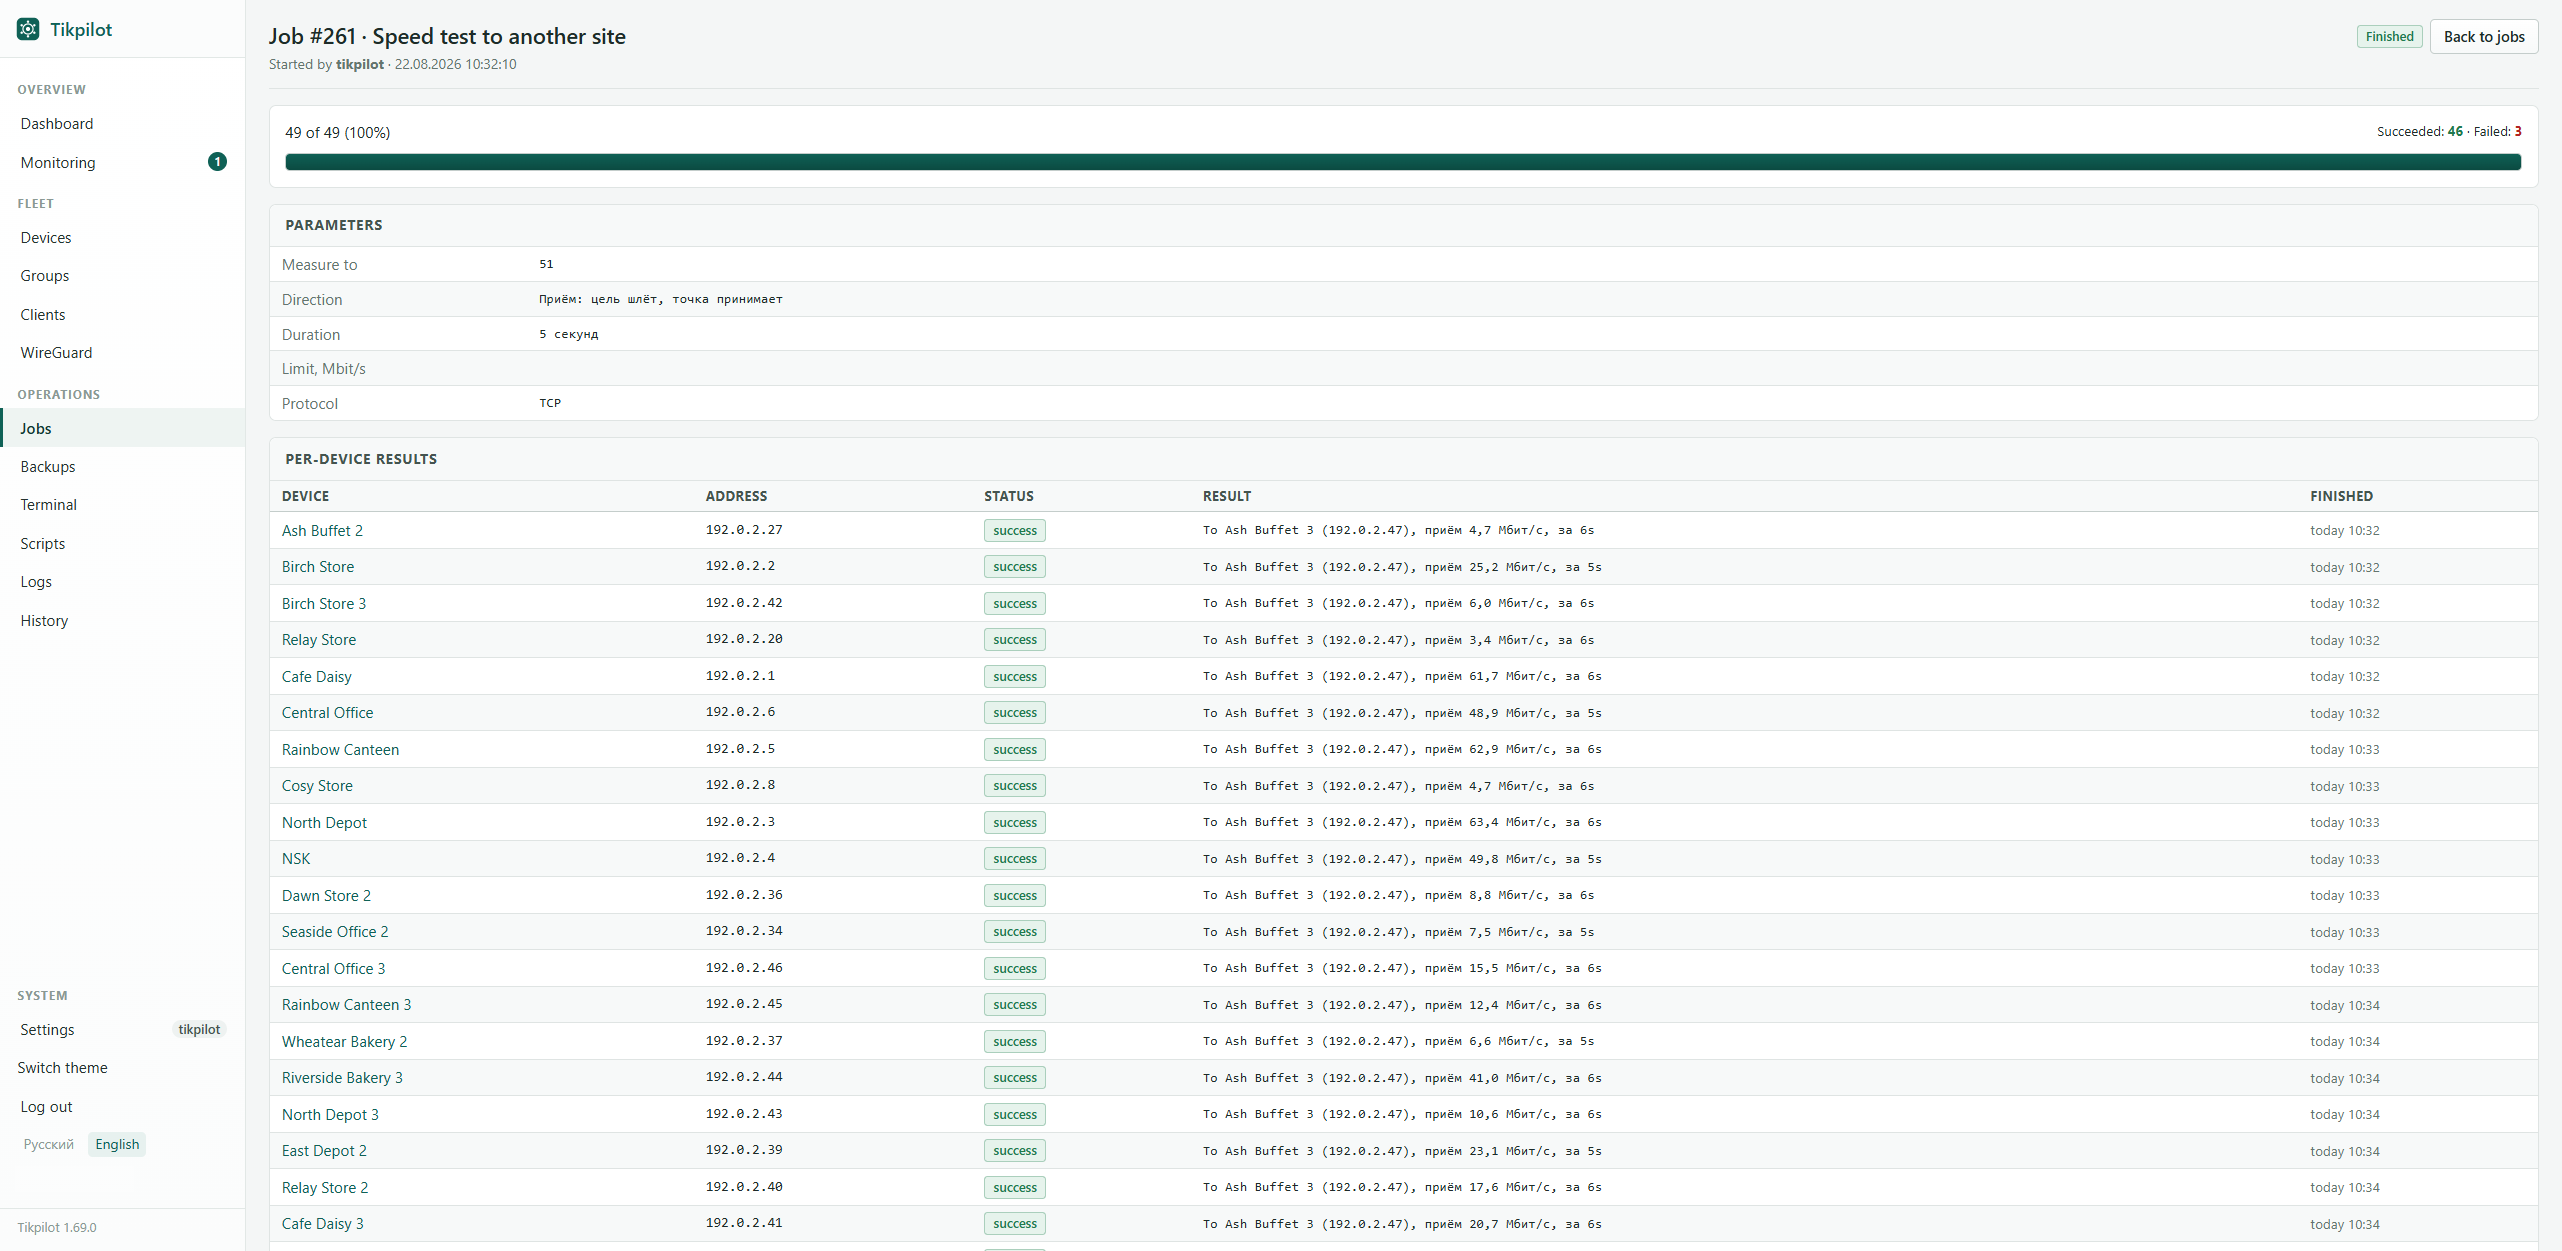
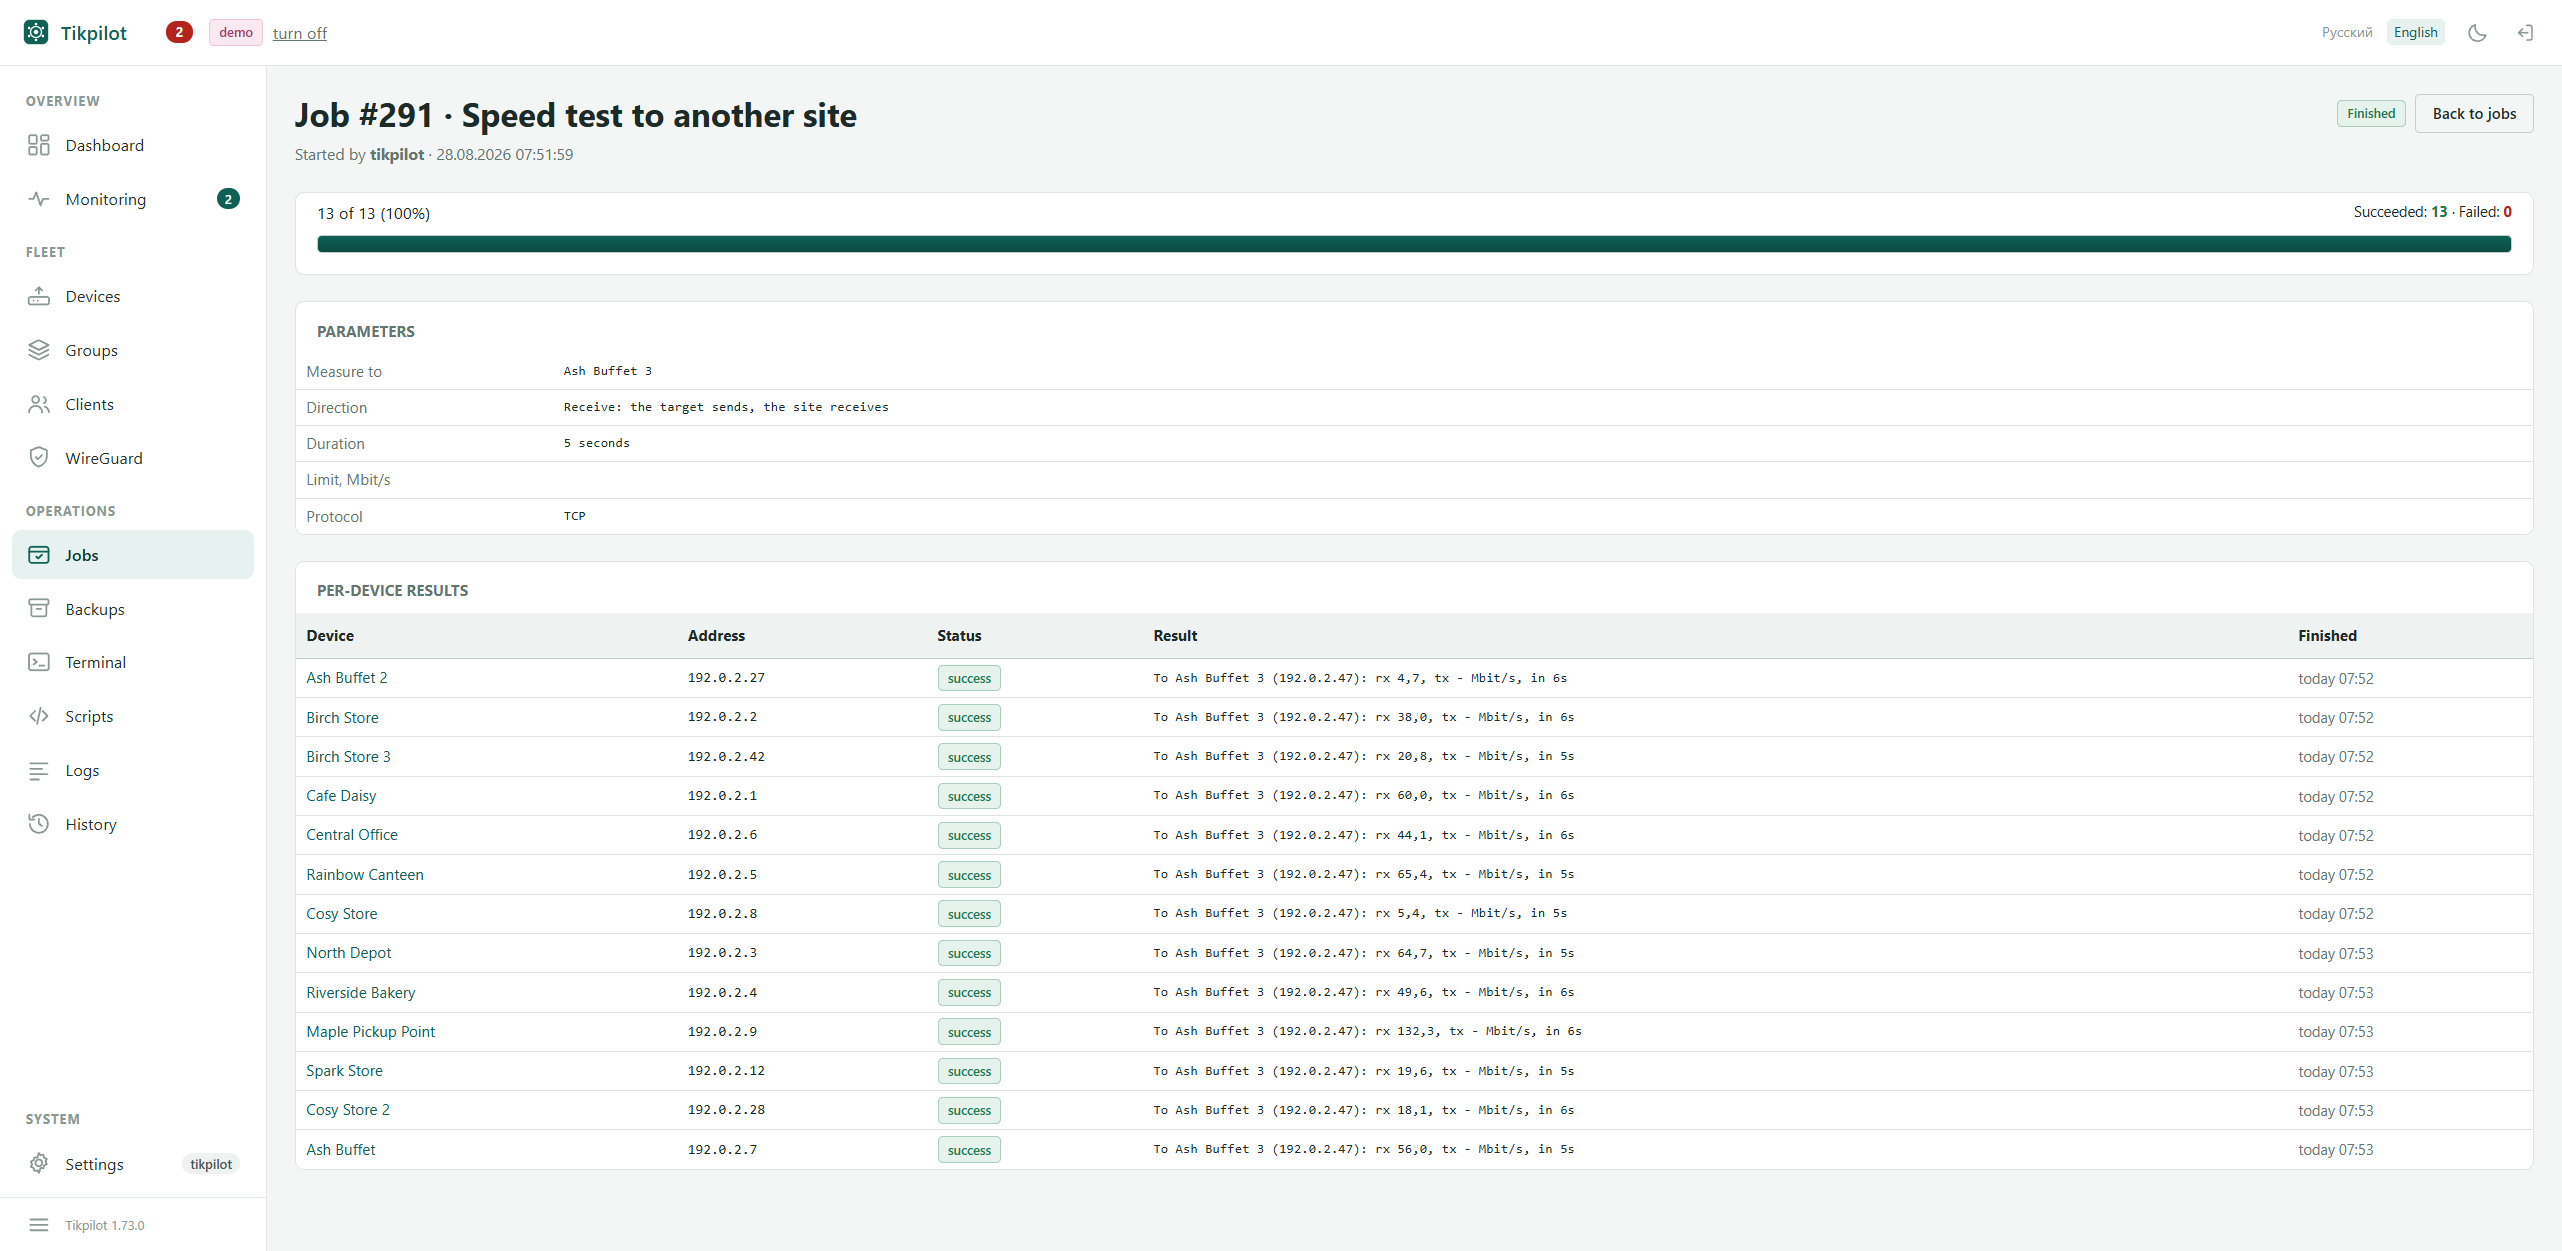
Reshoot the rest of the screenshots

diff --git a/docs/ru/index.html b/docs/ru/index.html
@@ -387,7 +387,7 @@ docker compose up -d</code></pre>
         </figure>
         <figure>
             <a class="zoom" href="../screenshots/speedtest.png">
-                <img src="../shots/speedtest.png" alt="Задача «тест скорости»: полоса от каждой из 49 точек до одной цели, строкой на точку" loading="lazy" decoding="async" width="1400" height="758">
+                <img src="../shots/speedtest.png" alt="Задача «тест скорости»: полоса от каждой из 49 точек до одной цели, строкой на точку" loading="lazy" decoding="async" width="1400" height="684">
             </a>
             <figcaption>Полоса от каждой площадки до центра, померенная самими роутерами. Точки идут по одной, иначе они делят канал цели и врут.</figcaption>
         </figure>

diff --git a/docs/index.html b/docs/index.html
@@ -387,7 +387,7 @@ docker compose up -d</code></pre>
         </figure>
         <figure>
             <a class="zoom" href="screenshots/speedtest.png">
-                <img src="shots/speedtest.png" alt="A speed test job: bandwidth from each of the 49 sites to a single target, one line per site" loading="lazy" decoding="async" width="1400" height="758">
+                <img src="shots/speedtest.png" alt="A speed test job: bandwidth from each of the 49 sites to a single target, one line per site" loading="lazy" decoding="async" width="1400" height="684">
             </a>
             <figcaption>Bandwidth from every site to the centre, measured by the routers themselves. Sites go one at a time, otherwise they share the target's channel and lie.</figcaption>
         </figure>
